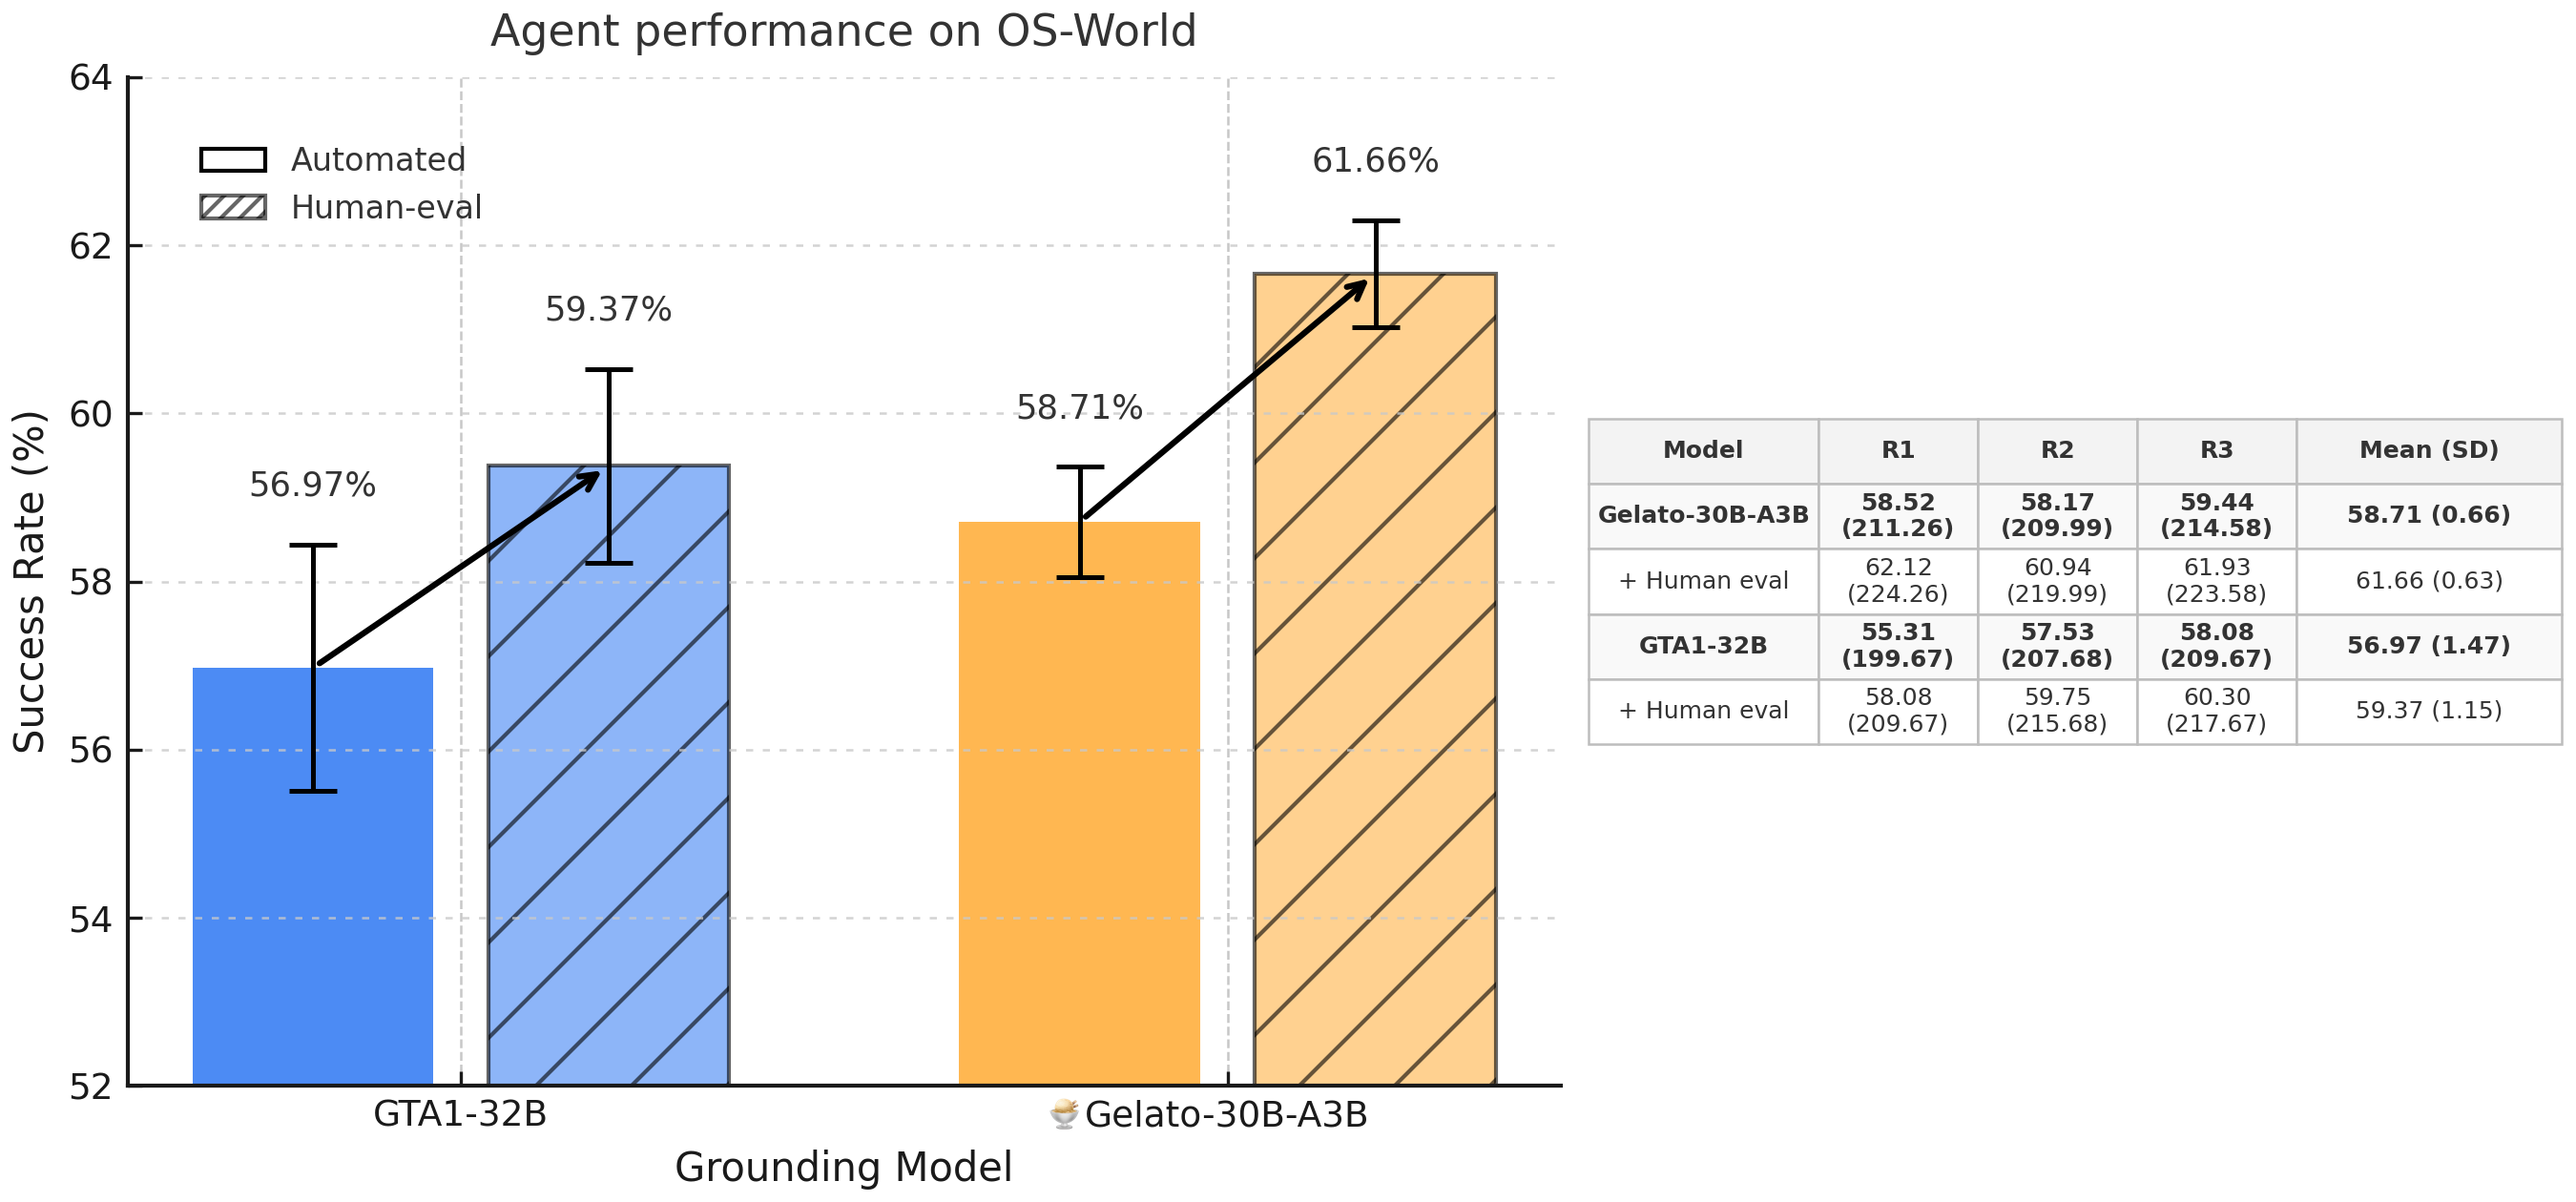
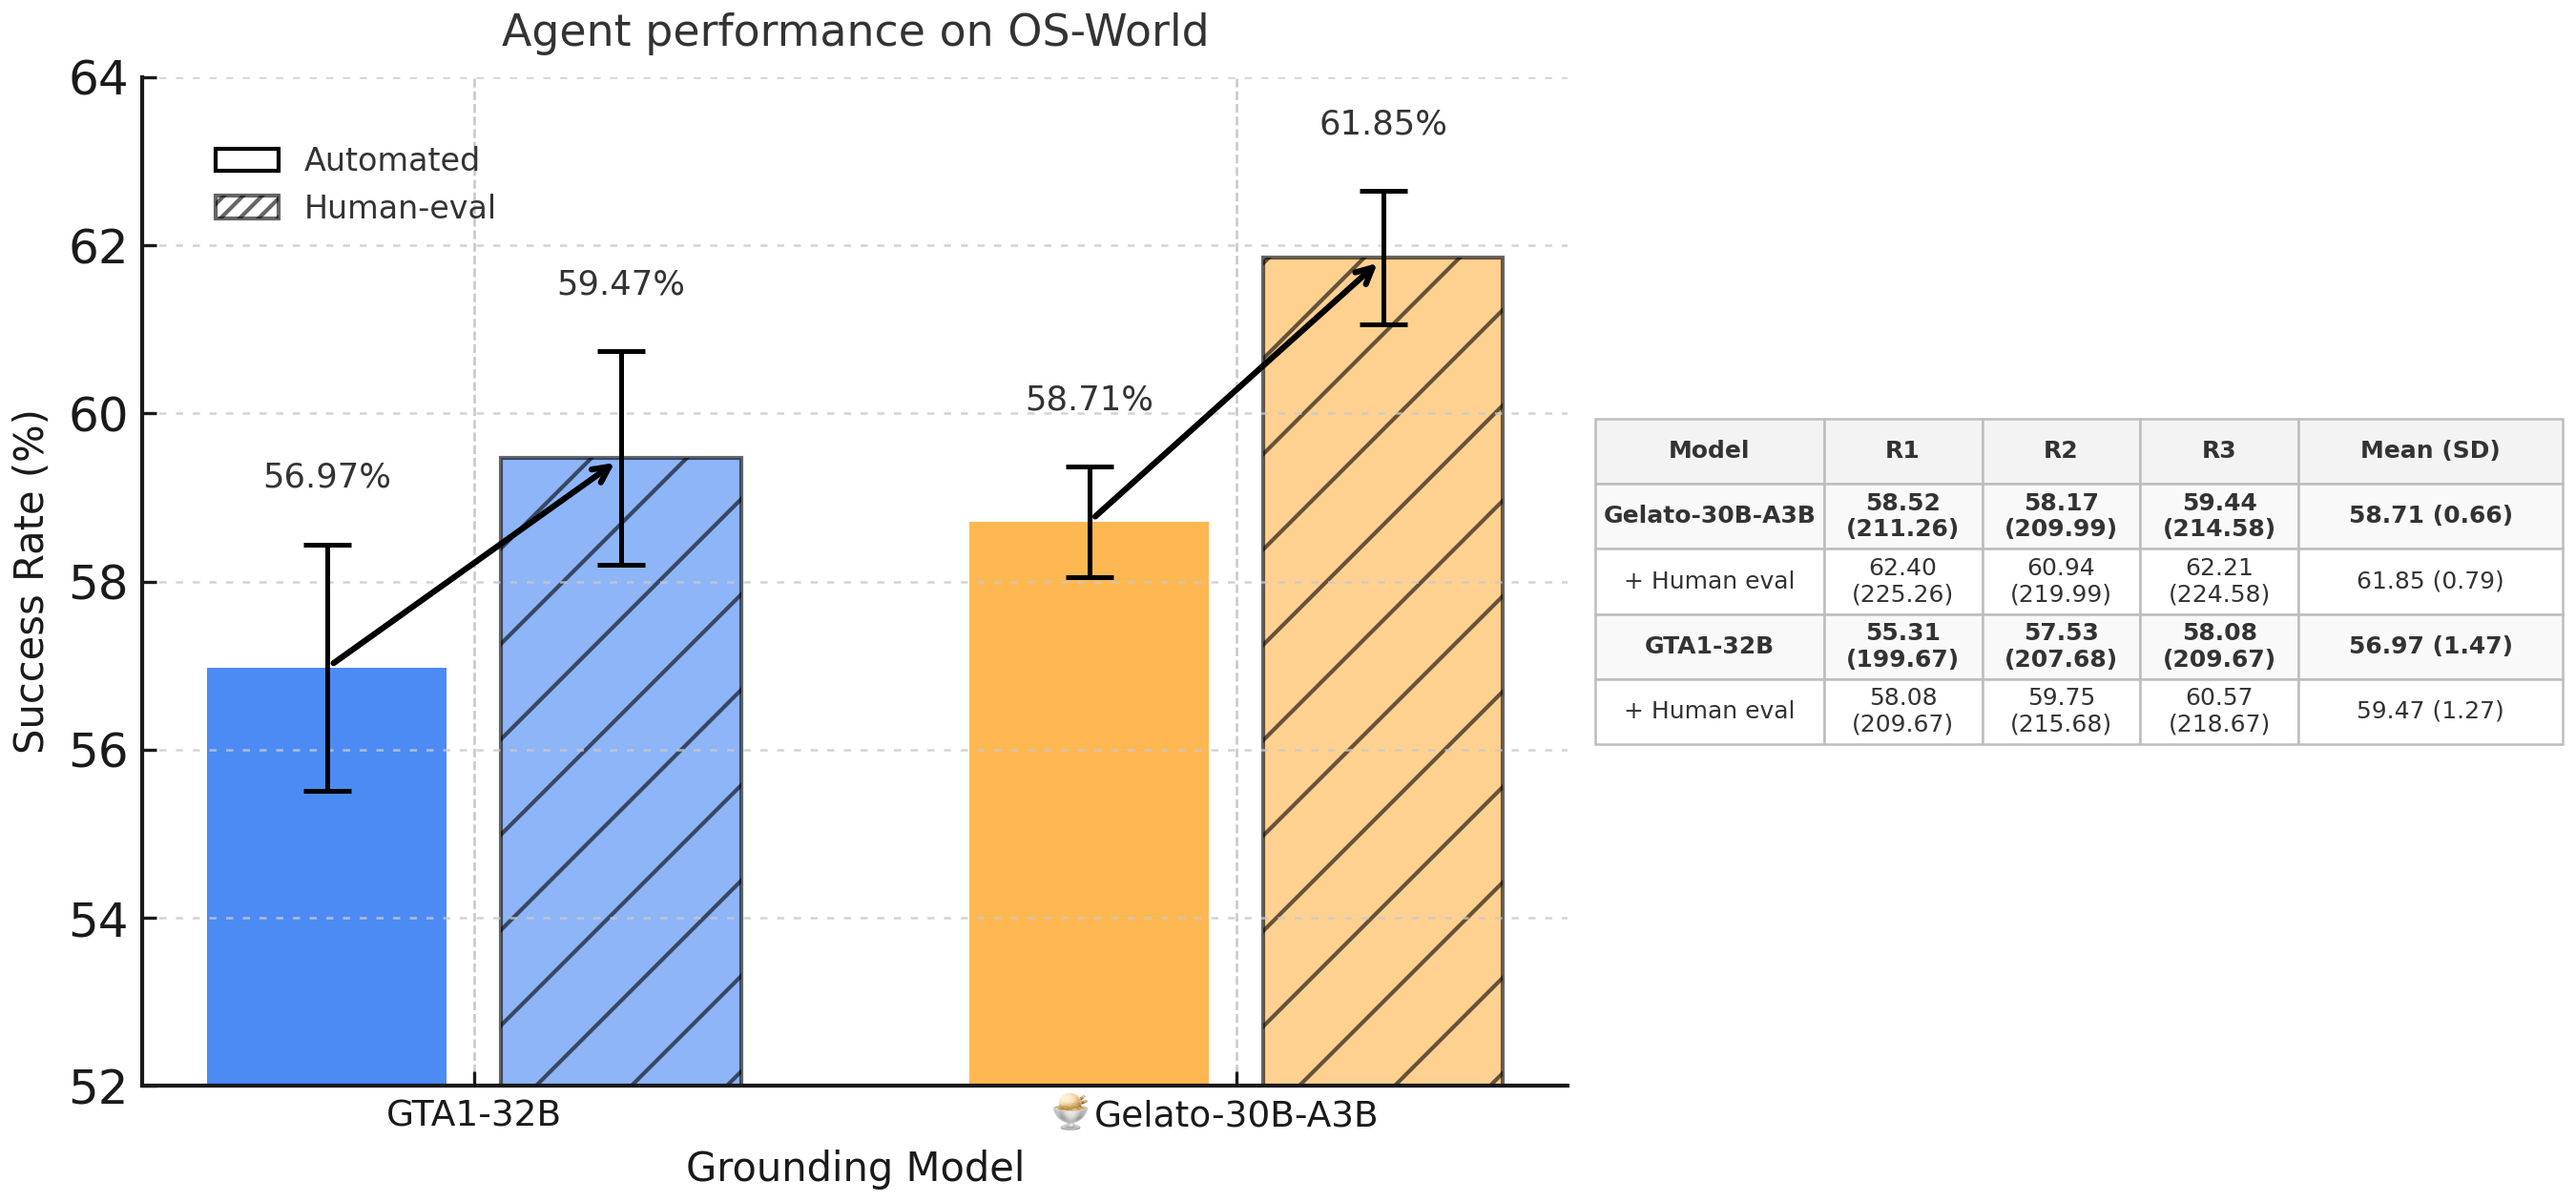
Touch-up for release (#1)

diff --git a/README.md b/README.md
@@ -5,7 +5,7 @@
 ![Figure 1: Gelato-30B-A3B](assets/gelato-fig1.png)  
 > **Figure 1:** 🍨 Gelato-30B-A3B outperforms the SoTA specialized computer grounding model, GTA1-32B, and larger VLMs on the ScreenSpot-Pro and OS-World-G grounding benchmarks.
 
-We are releasing [**🍨 Gelato-30B-A3B**](https://huggingface.co/mlfoundations/Gelato-30B-A3B), a state-of-the-art grounding model for GUI computer-use tasks! Gelato is trained on our open-sourced [**🖱 Click-100k**](https://huggingface.co/datasets/mlfoundations/Click-100k) dataset and achieves **63.88% accuracy on ScreenSpot-Pro**<sup>[[3](#ref-screenspot-pro)]</sup> and **69.15% / 74.65% on OS-World-G / OS-World-G (Refined)**<sup>[[4](#ref-jedi)]</sup>, surpassing prior specialized computer grounding models like GTA1-32B <sup>[[5](#ref-gta1)]</sup> and much larger VLMs including Qwen3-VL-235B-A22B-Instruct <sup>[[10](#ref-qwen3vl)]</sup>. When combined with GPT-5, Gelato enables strong agentic performance at **58.71 ± 0.66%** automated success rate (**61.66 ± 0.63%** with human evaluation) vs. **56.97 ± 1.47%** (**59.37 ± 1.15%** with human evaluation) for GTA1-32B on OS-World.
+We are releasing [**🍨 Gelato-30B-A3B**](https://huggingface.co/mlfoundations/Gelato-30B-A3B), a state-of-the-art grounding model for GUI computer-use tasks! Gelato is trained on our open-sourced [**🖱 Click-100k**](https://huggingface.co/datasets/mlfoundations/Click-100k) dataset and achieves **63.88% accuracy on ScreenSpot-Pro**<sup>[[3](#ref-screenspot-pro)]</sup> and **69.15% / 74.65% on OS-World-G / OS-World-G (Refined)**<sup>[[4](#ref-jedi)]</sup>, surpassing prior specialized computer grounding models like GTA1-32B <sup>[[5](#ref-gta1)]</sup> and much larger VLMs including Qwen3-VL-235B-A22B-Instruct <sup>[[10](#ref-qwen3vl)]</sup>. When combined with GPT-5, Gelato enables strong agentic performance at **58.71%** automated success rate (**61.85%** with human evaluation) vs. **56.97%** (**59.47%** with human evaluation) for GTA1-32B on OS-World.
 
 ## Building the Click-100k Dataset
 
@@ -96,15 +96,15 @@ We found that many of the issues discussed in the [EpochAI article critiquing OS
   <img src="assets/gelato-fig7.png" alt="Figure 7: OS-World Agent Performance" width="950"/>
 </p>
 
-> **Figure 7:** OS-World agent performance across three runs with GPT-5 planner. Automated evaluation underestimates performance due to incomplete task specifications. Human evaluation shows 🍨 Gelato-30B-A3B achieves **61.66 ± 0.63%** success rate vs. GTA1-32B's **59.37 ± 1.15%**.
+> **Figure 7:** OS-World agent performance across three runs with GPT-5 planner. Automated evaluation underestimates performance due to incomplete task specifications. Human evaluation shows 🍨 Gelato-30B-A3B achieves **61.85%** success rate vs. GTA1-32B's **59.47%**.
 
 To enable fair comparison, we ran three trials for both Gelato-30B-A3B and GTA1-32B in the same agent harness. The experiments were conducted in a [fixed snapshot of OS-World](https://github.com/xlang-ai/OSWorld/tree/ddb8372a6cbb51a29583cc1c0fe8c090e61219b7). Gelato-30B-A3B achieves **58.71 ± 0.66% success rate** on OS-World automated evaluation, performing on par or above GTA1-32B (**56.97 ± 1.47%** success rate). We provide all of our agent's OS-World trajectories at [mlfoundations/gelato-osworld-agent-trajectories](https://huggingface.co/datasets/mlfoundations/gelato-osworld-agent-trajectories).
 
 ### Human Evaluation
 
-We manually identified 19 tasks where the evaluation function is incomprehensive or the task specification is ambiguous. For each task, we review all agent trajectories and determine whether the task was successfully completed. With human evaluation corrections, Gelato-30B-A3B achieves **61.66 ± 0.63%** success rate compared to the automated evaluation result of **58.71 ± 0.66%**. Similarly, GTA1-32B achieves **59.37 ± 1.15%** success rate with human evaluation compared to **56.97 ± 1.47%** on automated evaluation.
+We manually identified 20 tasks where the evaluation function is incomprehensive or the task specification is ambiguous. For each task, we review all agent trajectories and determine whether the task was successfully completed. With human evaluation corrections, Gelato-30B-A3B achieves **61.85 ± 0.79%** success rate compared to the automated evaluation result of **58.71 ± 0.66%**. Similarly, GTA1-32B achieves **59.47 ± 1.27%** success rate with human evaluation compared to **56.97 ± 1.47%** on automated evaluation.
 
-See [evaluation/osworld-human-evals.md](evaluation/osworld-human-evals.md) for detailed results. This is not a comprehensive manual evaluation, we identified clearly problematic that were also easy to check.
+See [evaluation/osworld-human-evals.md](evaluation/osworld-human-evals.md) for detailed results. This is not a comprehensive manual evaluation, we identified clearly problematic tasks that were also easy to check.
 
 ## Team
 
@@ -136,24 +136,24 @@ If you use **🍨 Gelato** in your research, please cite it as follows:
 ## References
 <small>
 
-1. <a id="ref-showui"></a>**ShowUI:** Lin et al. *"ShowUI: One Vision-Language-Action Model for GUI Visual Agent."* arXiv:2411.17465 (2024).
-2. <a id="ref-autogui"></a>**AutoGUI:** Li et al. *"AutoGUI: Scaling GUI Grounding with Automatic Functional Annotation."* arXiv:2502.01977 (2025).
-3. <a id="ref-screenspot-pro"></a>**ScreenSpot-Pro:** Li et al. *"ScreenSpot-Pro: GUI Grounding for Professional High-Resolution Computer Use."* arXiv:2504.07981 (2025).
-4. <a id="ref-jedi"></a>**OS-World-G / JEDI:** Xie et al. *"Scaling Computer-Use Grounding via User Interface Decomposition and Synthesis."* arXiv:2505.13227 (2025).
-5. <a id="ref-gta1"></a>**GTA1:** Yang et al. *"GTA1: GUI Test-time Scaling Agent."* arXiv:2507.05791 (2025).
-6. <a id="ref-omniparser"></a>**OmniParser:** Lu et al. *"OmniParser for Pure Vision Based GUI Agent."* arXiv:2408.00203 (2024).
-7. <a id="ref-seeclick"></a>**SeeClick:** Cheng et al. *"SeeClick: Harnessing GUI Grounding for Advanced Visual GUI Agents."* arXiv:2401.10935 (2024).
-8. <a id="ref-pixmo"></a>**PixMo Points:** Deitke et al. *"Molmo and PixMo: Open Weights and Open Data for State-of-the-Art Vision-Language Models."* arXiv:2409.17146 (2024).
-9. <a id="ref-grpo"></a>**GRPO:** Shao et al. *"DeepSeekMath: Pushing the Limits of Mathematical Reasoning in Open Language Models."* arXiv:2402.03300 (2024).
-10. <a id="ref-qwen3vl"></a>**Qwen3-VL:** Qwen Team. *"Qwen3 Technical Report"* arXiv:2505.09388 (2025).
-11. <a id="ref-uitars"></a>**UI-TARS 1.5:** Qin et al. *"UI-TARS: Pioneering Automated GUI Interaction with Native Agents."* arXiv:2501.12326 (2025).
-12. <a id="ref-uivision"></a>**UI-VISION:** Nayak et al. *"UI-Vision: A Desktop-centric GUI Benchmark for Visual Perception and Interaction."* arXiv:2503.15661 (2025).
-13. <a id="ref-osatlas"></a>**OS-Atlas:** Wu et al. *"OS-ATLAS: A Foundation Action Model for Generalist GUI Agents."* arXiv:2410.23218 (2024).
-14. <a id="ref-se-gui"></a>**SE-GUI:** Yuan et al. *"Enhancing Visual Grounding for GUI Agents via Self-Evolutionary Reinforcement Learning."* arXiv:2505.12370 (2025).
-15. <a id="ref-dapo"></a>**DAPO:** Yu et al. *"DAPO: An Open-Source LLM Reinforcement Learning System at Scale."* arXiv:2503.14476 (2025).
-16. <a id="ref-uground"></a>**UGround:** Gou et al. *"Navigating the Digital World as Humans Do: Universal Visual Grounding for GUI Agents."* arXiv:2410.05243 (2024).
-17. <a id="ref-waveui-25k"></a>**WaveUI-25k:** AgentSea. *"WaveUI-25k."* HF dataset card (2024).
-18. <a id="ref-pcagente"></a>**PC-Agent-E:** He et al. *"Efficient Agent Training for Computer Use."* arXiv:2505.13909 (2025).
-19. <a id="ref-uivenus"></a>**UI-Venus:** Gu et al. *"UI-Venus Technical Report: Building High-Performance UI Agents with RFT."* arXiv:2508.10833 (2025).
+1. <a id="ref-showui"></a>**ShowUI:** Lin et al. *"ShowUI: One Vision-Language-Action Model for GUI Visual Agent."* [arXiv:2411.17465](https://arxiv.org/abs/2411.17465) (2024).
+2. <a id="ref-autogui"></a>**AutoGUI:** Li et al. *"AutoGUI: Scaling GUI Grounding with Automatic Functional Annotation."* [arXiv:2502.01977](https://arxiv.org/abs/2502.01977) (2025).
+3. <a id="ref-screenspot-pro"></a>**ScreenSpot-Pro:** Li et al. *"ScreenSpot-Pro: GUI Grounding for Professional High-Resolution Computer Use."* [arXiv:2504.07981](https://arxiv.org/abs/2504.07981) (2025).
+4. <a id="ref-jedi"></a>**OS-World-G / JEDI:** Xie et al. *"Scaling Computer-Use Grounding via User Interface Decomposition and Synthesis."* [arXiv:2505.13227](https://arxiv.org/abs/2505.13227) (2025).
+5. <a id="ref-gta1"></a>**GTA1:** Yang et al. *"GTA1: GUI Test-time Scaling Agent."* [arXiv:2507.05791](https://arxiv.org/abs/2507.05791) (2025).
+6. <a id="ref-omniparser"></a>**OmniParser:** Lu et al. *"OmniParser for Pure Vision Based GUI Agent."* [arXiv:2408.00203](https://arxiv.org/abs/2408.00203) (2024).
+7. <a id="ref-seeclick"></a>**SeeClick:** Cheng et al. *"SeeClick: Harnessing GUI Grounding for Advanced Visual GUI Agents."* [arXiv:2401.10935](https://arxiv.org/abs/2401.10935) (2024).
+8. <a id="ref-pixmo"></a>**PixMo Points:** Deitke et al. *"Molmo and PixMo: Open Weights and Open Data for State-of-the-Art Vision-Language Models."* [arXiv:2409.17146](https://arxiv.org/abs/2409.17146) (2024).
+9. <a id="ref-grpo"></a>**GRPO:** Shao et al. *"DeepSeekMath: Pushing the Limits of Mathematical Reasoning in Open Language Models."* [arXiv:2402.03300](https://arxiv.org/abs/2402.03300) (2024).
+10. <a id="ref-qwen3vl"></a>**Qwen3-VL:** Qwen Team. *"Qwen3 Technical Report"* [arXiv:2505.09388](https://arxiv.org/abs/2505.09388) (2025).
+11. <a id="ref-uitars"></a>**UI-TARS 1.5:** Qin et al. *"UI-TARS: Pioneering Automated GUI Interaction with Native Agents."* [arXiv:2501.12326](https://arxiv.org/abs/2501.12326) (2025).
+12. <a id="ref-uivision"></a>**UI-VISION:** Nayak et al. *"UI-Vision: A Desktop-centric GUI Benchmark for Visual Perception and Interaction."* [arXiv:2503.15661](https://arxiv.org/abs/2503.15661) (2025).
+13. <a id="ref-osatlas"></a>**OS-Atlas:** Wu et al. *"OS-ATLAS: A Foundation Action Model for Generalist GUI Agents."* [arXiv:2410.23218](https://arxiv.org/abs/2410.23218) (2024).
+14. <a id="ref-se-gui"></a>**SE-GUI:** Yuan et al. *"Enhancing Visual Grounding for GUI Agents via Self-Evolutionary Reinforcement Learning."* [arXiv:2505.12370](https://arxiv.org/abs/2505.12370) (2025).
+15. <a id="ref-dapo"></a>**DAPO:** Yu et al. *"DAPO: An Open-Source LLM Reinforcement Learning System at Scale."* [arXiv:2503.14476](https://arxiv.org/abs/2503.14476) (2025).
+16. <a id="ref-uground"></a>**UGround:** Gou et al. *"Navigating the Digital World as Humans Do: Universal Visual Grounding for GUI Agents."* [arXiv:2410.05243](https://arxiv.org/abs/2410.05243) (2024).
+17. <a id="ref-waveui-25k"></a>**WaveUI-25k:** AgentSea. *"WaveUI-25k."* [HF dataset card](https://huggingface.co/datasets/agentsea/wave-ui-25k) (2024).
+18. <a id="ref-pcagente"></a>**PC-Agent-E:** He et al. *"Efficient Agent Training for Computer Use."* [arXiv:2505.13909](https://arxiv.org/abs/2505.13909) (2025).
+19. <a id="ref-uivenus"></a>**UI-Venus:** Gu et al. *"UI-Venus Technical Report: Building High-Performance UI Agents with RFT."* [arXiv:2508.10833](https://arxiv.org/abs/2508.10833) (2025).
 
 </small>

diff --git a/evaluation/osworld-human-evals.md b/evaluation/osworld-human-evals.md
@@ -8,7 +8,7 @@ This report summarizes all tasks that were corrected from reward 0 (failed) to n
 
 ### run_1
 
-**Total corrections:** 13
+**Total corrections:** 14
 
 | Task ID | App | Original Reward | New Reward | Notes |
 |---------|-----|-----------------|------------|-------|
@@ -25,6 +25,7 @@ This report summarizes all tasks that were corrected from reward 0 (failed) to n
 | `fc6d8143-9452-4171-9459-7f515143419a` | chrome | 0 | 1 | - |
 | `841b50aa-df53-47bd-a73a-22d3a9f73160` | libreoffice_impress | 0 | 1 | - |
 | `d06f0d4d-2cd5-4ede-8de9-598629438c6e` | vlc | 0 | 1 | The agent downloaded a dark-theme skin from the internet and successfully set it as the VLC media player’s default. The volume slider is black and overall the design is in a dark color scheme. |
+| `e2dd0213-26db-4349-abe5-d5667bfd725c` | gimp | 0 | 1 | Task asks agent to move a centered text box to the left without specifying how much the offset should be. Agent moves the text box but not as much as where the evaluation function expects it to be. |
 
 ### run_2
 
@@ -46,7 +47,7 @@ This report summarizes all tasks that were corrected from reward 0 (failed) to n
 
 ### run_3
 
-**Total corrections:** 9
+**Total corrections:** 10
 
 | Task ID | App | Original Reward | New Reward | Notes |
 |---------|-----|-----------------|------------|-------|
@@ -59,7 +60,7 @@ This report summarizes all tasks that were corrected from reward 0 (failed) to n
 | `121ba48f-9e17-48ce-9bc6-a4fb17a7ebba` | chrome | 0 | 1 | Agent successfully added Dota 2 all DLC to cart. Even though two DLCs are listed, only one actually shows up in the cart (maybe because the other is free?). When I do the same in the steam store, I get the same result. The agent further opened the cart to verify. There was an SSL error and it pressed reload to successfully view the cart. Then it terminated. |
 | `b4f95342-463e-4179-8c3f-193cd7241fb2` | chrome | 0 | 1 | - |
 | `fc6d8143-9452-4171-9459-7f515143419a` | chrome | 0 | 1 | - |
-
+| `e2dd0213-26db-4349-abe5-d5667bfd725c` | gimp | 0 | 1 | Task asks agent to move a centered text box to the left without specifying how much the offset should be. Agent moves the text box but not as much as where the evaluation function expects it to be. |
 ---
 
 ## gta1-32b_baseline
@@ -98,7 +99,7 @@ This report summarizes all tasks that were corrected from reward 0 (failed) to n
 
 ### run_3
 
-**Total corrections:** 8
+**Total corrections:** 9
 
 | Task ID | App | Original Reward | New Reward | Notes |
 |---------|-----|-----------------|------------|-------|
@@ -110,14 +111,14 @@ This report summarizes all tasks that were corrected from reward 0 (failed) to n
 | `9f935cce-0a9f-435f-8007-817732bfc0a5` | chrome | 0 | 1 | - |
 | `fc6d8143-9452-4171-9459-7f515143419a` | chrome | 0 | 1 | - |
 | `d06f0d4d-2cd5-4ede-8de9-598629438c6e` | vlc | 0 | 1 | The agent downloaded a dark-theme skin from the internet and successfully set it as the VLC media player's default. The volume slider is black and overall the design is in a dark color scheme. |
-
+| `e2dd0213-26db-4349-abe5-d5667bfd725c` | gimp | 0 | 1 | Task asks agent to move a centered text box to the left without specifying how much the offset should be. Agent moves the text box but not as much as where the evaluation function expects it to be. |
 ---
 
 ## All Corrected Tasks
 
 The following tasks were corrected in at least one model/trial.
 
-**Total unique tasks corrected:** 19
+**Total unique tasks corrected:** 20
 
 ```
 06fe7178-4491-4589-810f-2e2bc9502122
@@ -139,4 +140,5 @@ d06f0d4d-2cd5-4ede-8de9-598629438c6e
 da46d875-6b82-4681-9284-653b0c7ae241
 f0b971a1-6831-4b9b-a50e-22a6e47f45ba
 fc6d8143-9452-4171-9459-7f515143419a
+e2dd0213-26db-4349-abe5-d5667bfd725c
 ```
